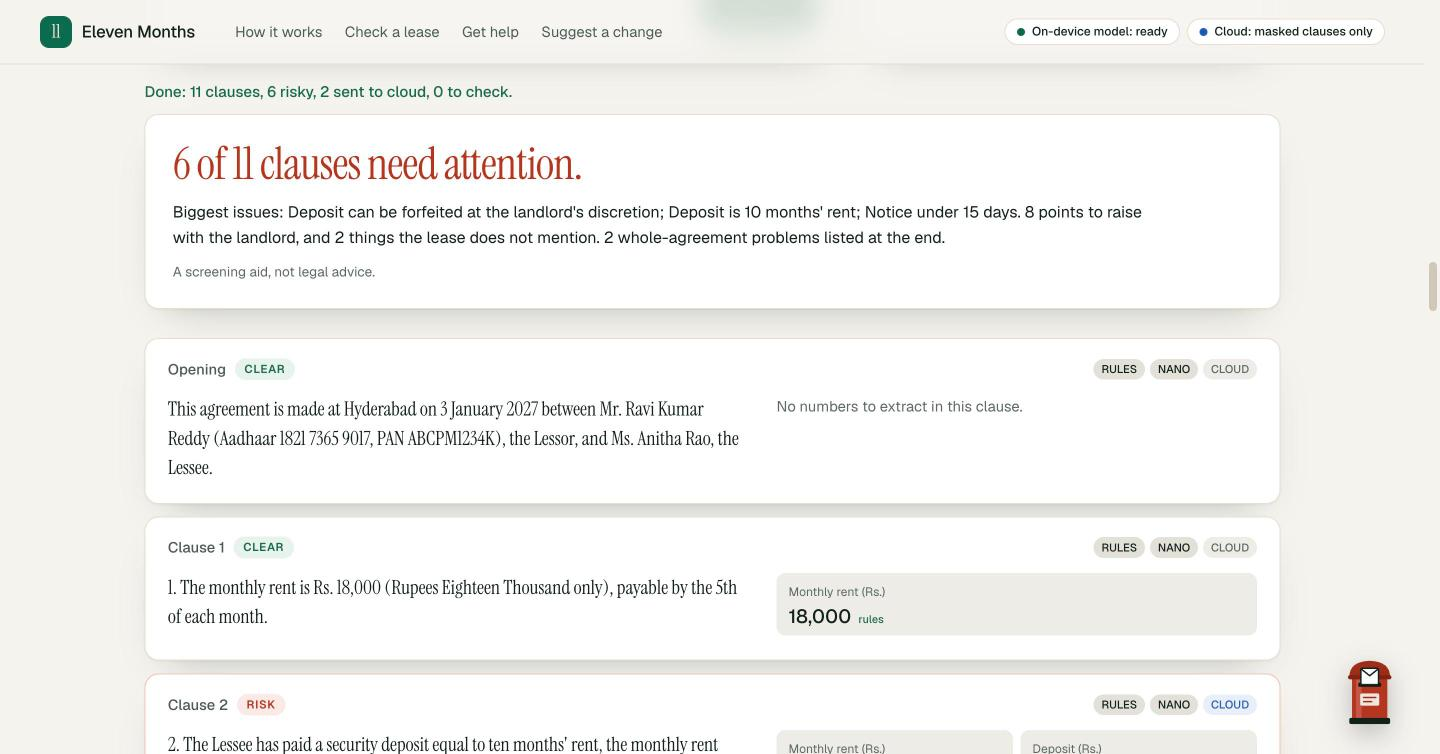
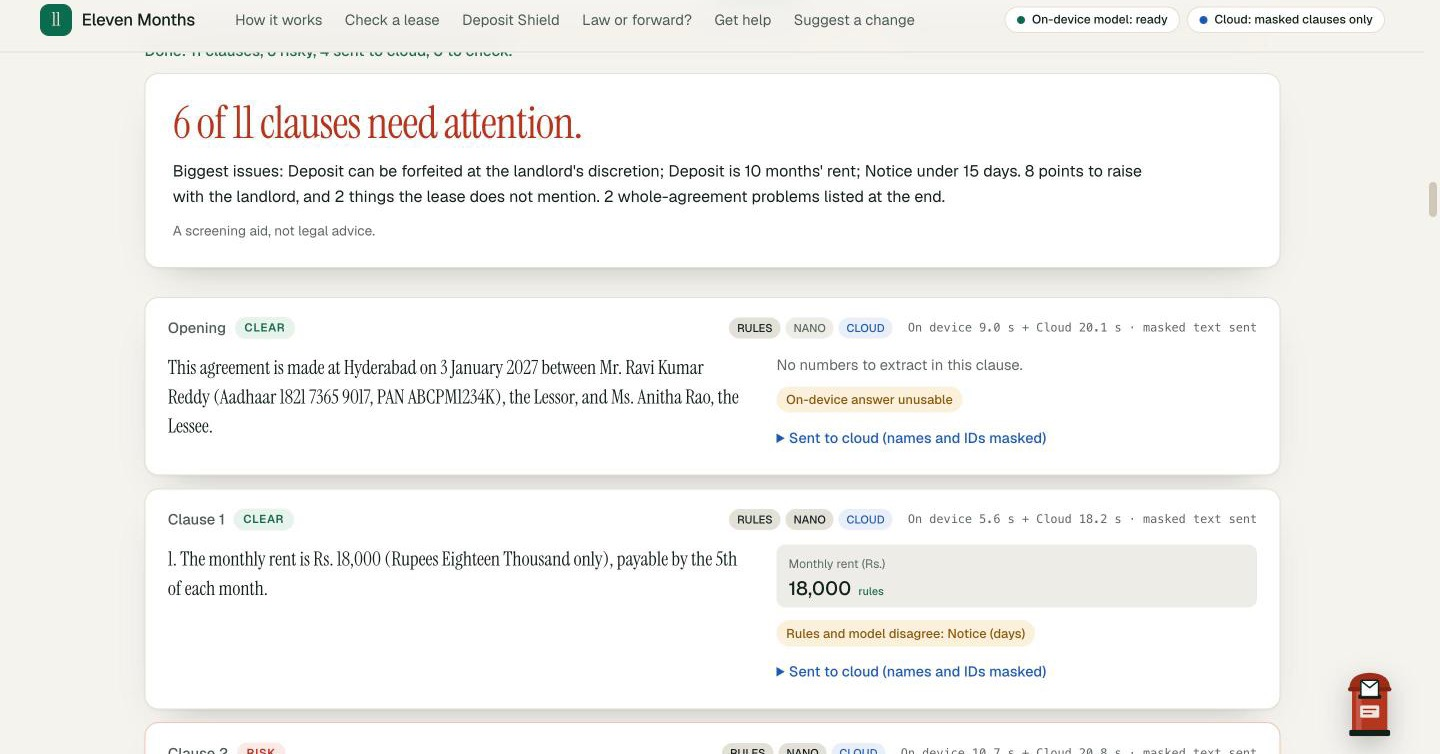
Gallery shots 3 and 4 show the where-it-ran chip; demo script points at it
Retaken on the live site (6 of 11, 4 sent to cloud this run); sample
cloud-count wording now lists the 2, 3 and 4 seen across runs.

diff --git a/docs/gallery/captions.md b/docs/gallery/captions.md
@@ -6,8 +6,8 @@ Fifteen screenshots. Shots 1 to 13 are of the live site (https://eleven-months-n
 |---|---|
 | `01-sample-loaded.jpg` | The sample agreement loaded and ready to scan. Both status chips show where the work happens: on-device model ready, and cloud for masked clauses only. |
 | `02-scan-in-progress.jpg` | Clauses appear one at a time as the rules and Gemini Nano judge them on the device; the chips show which layers ran. |
-| `03-verdict.jpg` | The verdict in plain words: 6 of 11 clauses need attention, with the biggest issues, the points to raise, and each clause marked clear or risky. |
-| `04-ask-for-this-instead.jpg` | A risky clause with the rule findings, the figures, and what to ask the landlord for instead. |
+| `03-verdict.jpg` | The verdict in plain words: 6 of 11 clauses need attention. Each clause card says where it ran and how long it took, for example "On device 5.6 s + Cloud 18.2 s · masked text sent". |
+| `04-ask-for-this-instead.jpg` | A risky clause with the rule findings, the figures and what to ask the landlord for instead, plus where it ran: on the device, then a masked cloud second opinion because the rules and the model disagreed. |
 | `05-masked-before-cloud.jpg` | The exact text sent to cloud Gemini for a second opinion: names, phone, email, Aadhaar and PAN are masked on the device first. |
 | `06-scan-summary.jpg` | The scan summary: 3 cloud calls, 73% of the clauses stayed on the device. |
 | `07-signing-sheet.jpg` | The "Take this to the signing" sheet: each point to raise, the clause it comes from, and what to ask for. Print it or save it as a PDF. |
@@ -24,4 +24,4 @@ Notes:
 - Shots 14 and 15 are framed images of the extension's side panel. The panel's own code ran in a Chrome tab with Gemini Nano on the developer's Mac ("On-device model: ready"); the same build is the extension package.
 - Shot 10's drafts were written by cloud Gemini on 19 Nov; the facts sent contained no names, so nothing needed masking beyond the placeholders.
 - Shot 5 uses a one-clause test agreement: clause 2 of the sample with made-up names, a phone number, an email, an Aadhaar number and a PAN added. The sample's own clauses that go to the cloud contain no personal details, so they would show nothing being masked.
-- Shot 3 is from the first scan (2 clauses sent to cloud). Shot 6 is from a second scan of the same sample (3 sent, 2 marked "to check"). Gemini Nano does not give the same answer every time, so the cloud count can vary between runs.
+- Shots 3 and 4 were retaken on 19 Nov (evening) to show the new where-it-ran chip; that run sent 4 of the 11 clauses to the cloud. Shot 6 is from a second scan of the same sample (3 sent, 2 marked "to check"). Gemini Nano does not give the same answer every time, so the cloud count can vary between runs.

diff --git a/DEMO-SCRIPT.md b/DEMO-SCRIPT.md
@@ -35,7 +35,7 @@ Times are for the finished video, after I cut the waits.
 | 0:17 | Press **Load sample**, then **Scan lease**. Point at the RULES and NANO tags | "Fixed rules read the numbers. The on-device model judges each clause. Nothing has left the laptop." |
 | 0:32 | Scroll to the verdict: "6 of 11 clauses need attention." | "Six of eleven clauses need attention." |
 | 0:38 | Clause 2: "Deposit is 10 months' rent", "Deposit can be forfeited", and the "Ask for this instead" box | "Ten months' deposit the owner can keep for any reason, and exactly what to ask for instead." |
-| 0:50 | The CLOUD tag on Clause 2 or 3, then the scan summary: "Cloud calls" and "Stayed on device" | "A clause goes to cloud Gemini only when there's a reason, like the rules and the model disagreeing. Everything else stays here." |
+| 0:50 | The chip on a clear clause, "On device … s · nothing sent", then on Clause 2 or 3 the lit CLOUD tag and its chip "On device … s + Cloud … s · masked text sent". Then the scan summary: "Cloud calls" and "Stayed on device" | "Every clause says where it ran. Most stay on this laptop. One goes to cloud Gemini only when there's a reason, like the rules and the model disagreeing, and only after masking." |
 | 1:03 | Select all in the agreement box, paste the test clause, **Scan lease**. Open "Sent to cloud (names and IDs masked)" | "Before anything is sent, names, Aadhaar, PAN, phones and emails are masked on the device. This is exactly what the cloud saw." |
 | 1:20 | "Take this to the signing" sheet | "And a sheet to take to the signing." |
 | 1:26 | **Upload PDF or photo**, pick the phone photo, the text appears | "A photo of the agreement is read on the device too. It never leaves the laptop." |

diff --git a/README.md b/README.md
@@ -78,7 +78,7 @@ Every model call goes through the Firebase AI Logic Web SDK (`firebase/ai`). See
             3. Cloud Gemini   the clause is masked first: names, Aadhaar, PAN, phones, emails
 ```
 
-- **Privacy by routing.** In the sample agreement, 2 of 11 clauses go to the cloud (3 in one of two re-runs on 19 Nov; Gemini Nano does not answer the same way every time, so the count can vary by run). If the on-device names check fails, the clause is not sent at all.
+- **Privacy by routing.** In the sample agreement, 2 of 11 clauses went to the cloud in the recorded run, and 3 and 4 in two re-runs on 19 Nov (Gemini Nano does not answer the same way every time, so the count varies by run). If the on-device names check fails, the clause is not sent at all.
 - **Every clause shows where it ran and how long it took**, for example "On device 3.9 s · nothing sent" or "On device 5.5 s + Cloud 1.8 s · masked text sent". The source comes from the SDK's `inferenceSource`, and while Gemini Nano reads, the status line counts the seconds.
 - **A stalled model cannot freeze the scan.** Each on-device call has a 60-second limit (we once saw Gemini Nano stall for over 30 minutes on one clause). A call that runs out counts as an unusable on-device answer, so the clause gets the masked cloud second opinion like any other.
 - **Rules win on numbers.** A model never overrides a figure the rules extracted.

diff --git a/SUBMISSION-DRAFT.md b/SUBMISSION-DRAFT.md
@@ -69,7 +69,7 @@ Deterministic rules run before any model: they extract the numbers (small models
 - **Speed.** Each clause makes up to two on-device calls. On a busy laptop the 11-clause sample took 2 to 4 minutes; the first answer after a Chrome restart takes 13 to 20 s while the model loads.
 
 ## Accomplishments that we're proud of
-**Measured, not claimed.** On 96 unseen clauses (70 harmful, 26 fair) run through the live site in desktop Chrome, the full pipeline caught **67 of 70** harmful clauses and flagged **1 of 26** fair ones by mistake. In the bundled sample agreement, **2 of 11** clauses left the device in the recorded run (3 of 11 in one of two re-runs on 19 Nov; Gemini Nano does not answer the same way every time).
+**Measured, not claimed.** On 96 unseen clauses (70 harmful, 26 fair) run through the live site in desktop Chrome, the full pipeline caught **67 of 70** harmful clauses and flagged **1 of 26** fair ones by mistake. In the bundled sample agreement, **2 of 11** clauses left the device in the recorded run (3 and 4 of 11 in two re-runs on 19 Nov; Gemini Nano does not answer the same way every time).
 
 | Mode | Harmful caught | Fair wrongly flagged | Sent to cloud |
 |---|---|---|---|
